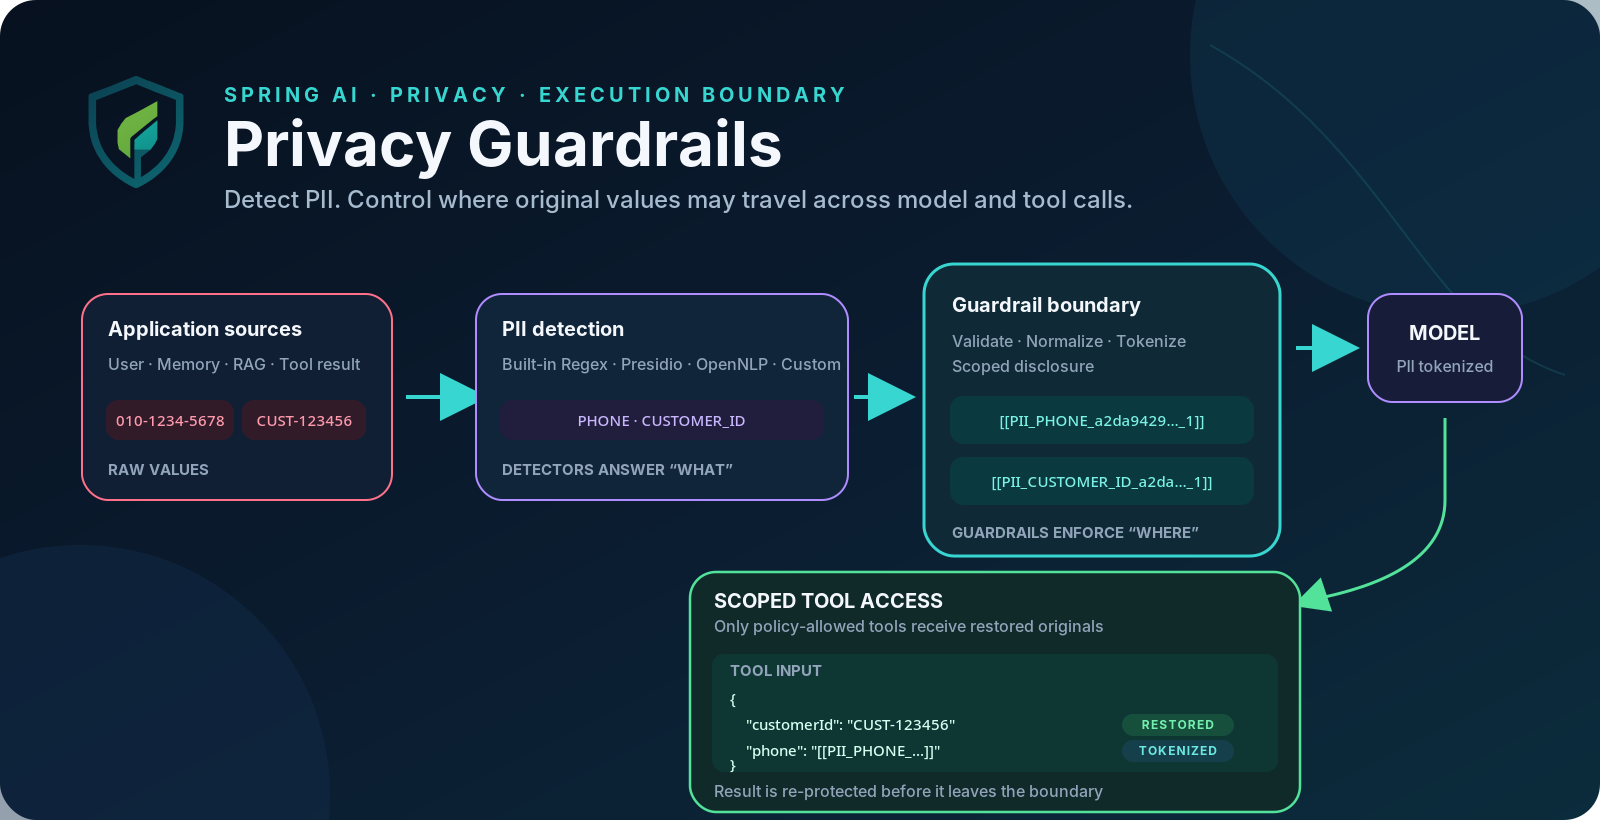
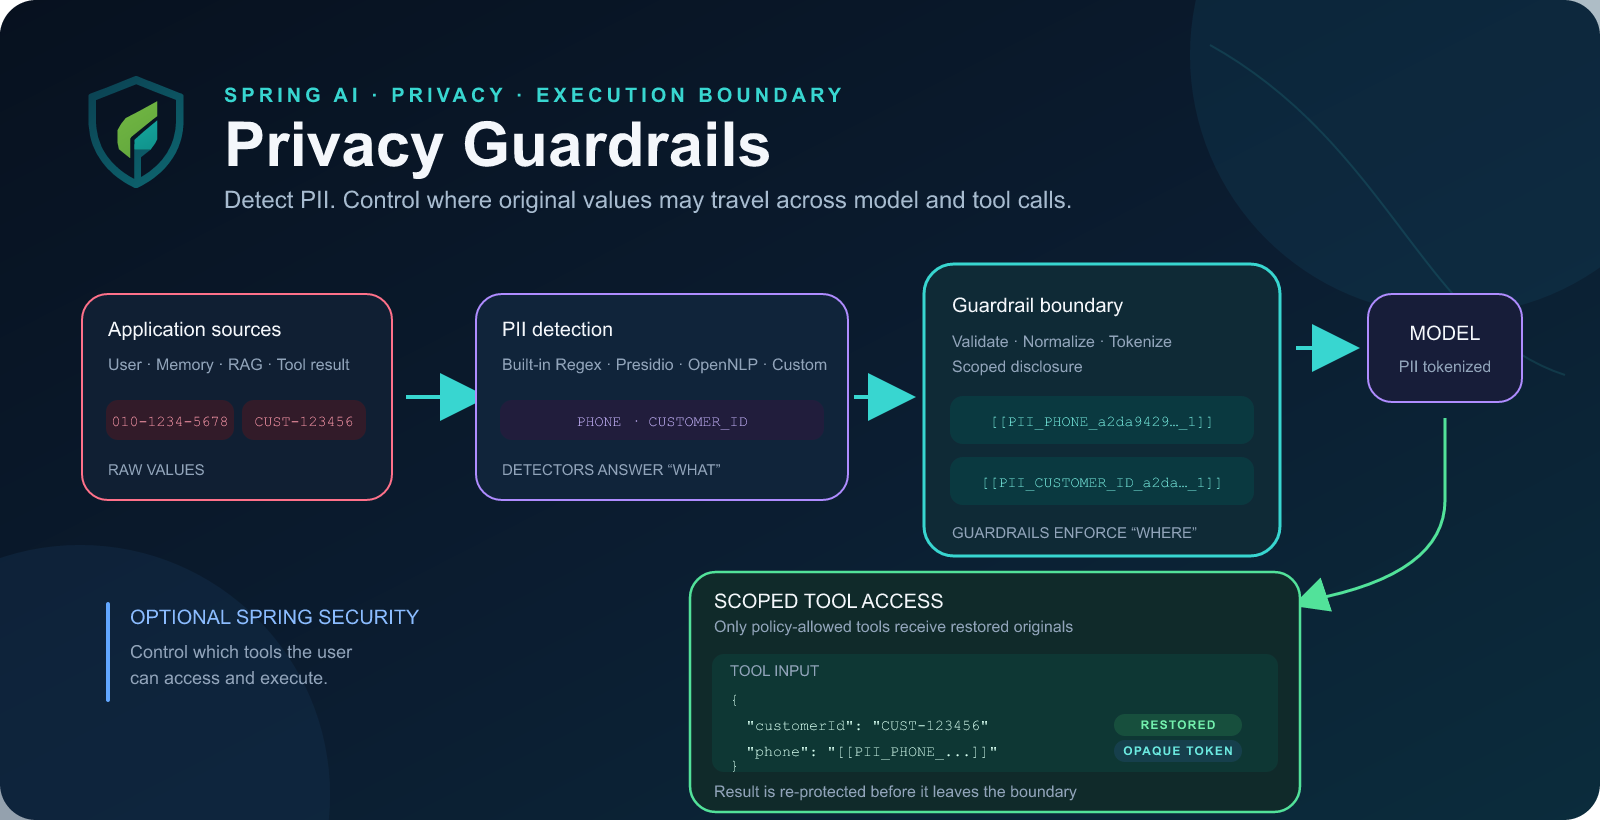
docs: improve localized metadata and link previews (#45)
Improve English and Korean documentation metadata and link previews.
Refresh project mentions and the shared preview image.

diff --git a/overrides/main.html b/overrides/main.html
@@ -1,0 +1,47 @@
+{% extends "base.html" %}
+
+{% block extrahead %}
+  {{ super() }}
+  {% if page and page.canonical_url %}
+    {% set is_korean = page.url[:3] == "ko/" %}
+    {% set share_title = config.site_name %}
+    {% if page.url != "" and page.url != "ko/" %}
+      {% set share_title = page.title ~ " - " ~ config.site_name %}
+    {% endif %}
+    {% set share_description = config.site_description %}
+    {% if page.meta and page.meta.description %}
+      {% set share_description = page.meta.description %}
+    {% endif %}
+    {% set share_image = config.site_url ~ "images/hero.png" %}
+    {% if is_korean %}
+      {% set share_image_alt = "Spring AI Privacy Guardrails의 개인정보 탐지·토큰화와 도구별 원문 공개 흐름" %}
+    {% else %}
+      {% set share_image_alt = "Spring AI Privacy Guardrails: PII detection, tokenization, and scoped disclosure to tools" %}
+    {% endif %}
+
+    <meta property="og:type" content="website">
+    <meta property="og:site_name" content="{{ config.site_name | e }}">
+    <meta property="og:title" content="{{ share_title | e }}">
+    <meta property="og:description" content="{{ share_description | e }}">
+    <meta property="og:url" content="{{ page.canonical_url | e }}">
+    <meta property="og:locale" content="{{ 'ko_KR' if is_korean else 'en_US' }}">
+    <meta property="og:image" content="{{ share_image | e }}">
+    <meta property="og:image:type" content="image/png">
+    <meta property="og:image:width" content="1600">
+    <meta property="og:image:height" content="820">
+    <meta property="og:image:alt" content="{{ share_image_alt | e }}">
+    <meta name="twitter:card" content="summary_large_image">
+    <meta name="twitter:title" content="{{ share_title | e }}">
+    <meta name="twitter:description" content="{{ share_description | e }}">
+    <meta name="twitter:image" content="{{ share_image | e }}">
+    <meta name="twitter:image:alt" content="{{ share_image_alt | e }}">
+
+    {% for path in config.extra.translated_pages %}
+      {% if page.url == path or page.url == ("ko/" ~ path) %}
+        <meta property="og:locale:alternate" content="{{ 'en_US' if is_korean else 'ko_KR' }}">
+        <link rel="alternate" hreflang="en" href="{{ config.site_url ~ path }}">
+        <link rel="alternate" hreflang="ko" href="{{ config.site_url ~ 'ko/' ~ path }}">
+      {% endif %}
+    {% endfor %}
+  {% endif %}
+{% endblock %}

diff --git a/overrides/partials/language.html b/overrides/partials/language.html
@@ -1,0 +1,12 @@
+{% set language = config.theme.language | d("en", true) %}
+{% import "partials/languages/" ~ language ~ ".html" as lang %}
+{% import "partials/languages/en.html" as fallback %}
+
+{# Set the document language per page, keeping the configured theme translations. #}
+{% macro t(key) -%}
+  {%- if key == "language" and page and page.url[:3] == "ko/" -%}
+    ko
+  {%- else -%}
+    {{ lang.t(key) or fallback.t(key) or key }}
+  {%- endif -%}
+{%- endmacro %}

diff --git a/docs/javascripts/language.js b/docs/javascripts/language.js
@@ -1,0 +1,11 @@
+// Instant navigation replaces page metadata but preserves the root HTML element.
+document$.subscribe(() => {
+  const canonical = document.querySelector('link[rel="canonical"]');
+  const alternate = Array.from(
+    document.querySelectorAll('link[rel="alternate"][hreflang]')
+  ).find((link) => link.href === canonical?.href);
+
+  if (alternate) {
+    document.documentElement.lang = alternate.hreflang;
+  }
+});

diff --git a/docs/ko/index.md b/docs/ko/index.md
@@ -1,4 +1,7 @@
 ---
+description: >-
+  Spring AI Privacy Guardrails는 요청별로 개인정보를 보호하고 도구에 전달할 원문을 제한합니다. Spring Security 도구
+  권한 검사를 선택적으로 함께 사용할 수 있습니다.
 hide:
   - footer
 ---
@@ -8,7 +11,7 @@ hide:
 [English](../index.md) | **한국어**
 
 <!-- i18n-source: docs/index.md -->
-<!-- i18n-source-sha256: 8c7f94556fe01ed12c5c87754413585bb127ef2781fac4f42f047bc18e3e83cf -->
+<!-- i18n-source-sha256: f3efa7e8f5c034cf66edcafa13eb3a4b05e6089479582aad6443d53f9f8c0049 -->
 
 ![Spring AI Privacy Guardrails 실행 경계](../images/hero.svg)
 
@@ -23,8 +26,10 @@ hide:
 도구 실행 전에 권한을 검사할 수 있습니다. 도구 권한 검사는 개인정보 보호 기능 없이도
 사용할 수 있습니다.
 
-Spring 공식 블로그에서 소개:
-[This Week in Spring — August 18, 2026](https://spring.io/blog/2026/08/18/this-week-in-spring-august-18-2026/).
+**외부 소개**
+
+- **Spring 공식 블로그** — [This Week in Spring](https://spring.io/blog/2026/08/18/this-week-in-spring-august-18-2026/)에 소개
+- **Spring AI Community** — [Awesome Spring AI의 Extensions and Forks](https://github.com/spring-ai-community/awesome-spring-ai#extensions-and-forks)에 소개
 
 ## 직접 확인하기
 

diff --git a/README.md b/README.md
@@ -10,10 +10,10 @@
   <img src="docs/images/hero.svg" alt="Spring AI Privacy Guardrails execution boundaries" width="100%">
 </p>
 
-<p align="center">
-  Featured on the Spring Blog:
-  <a href="https://spring.io/blog/2026/08/18/this-week-in-spring-august-18-2026/">This Week in Spring — August 18, 2026</a>
-</p>
+**Featured In**
+
+- **Spring Blog** — Featured in [This Week in Spring](https://spring.io/blog/2026/08/18/this-week-in-spring-august-18-2026/)
+- **Spring AI Community** — Listed in [Awesome Spring AI's Extensions and Forks](https://github.com/spring-ai-community/awesome-spring-ai#extensions-and-forks)
 
 <p align="center">
   <strong>Watch the demo:</strong>
@@ -79,6 +79,8 @@ Inspector**. Compare the values the model and tools actually receive:
   received by the model.
 - **MCP** shows the same protection through a local MCP tool call over
   Streamable HTTP.
+- **Security** compares tool visibility and execution permissions for a general
+  employee and customer support, with PII protection on the allowed call.
 
 <p align="center">
   <img src="docs/images/privacy-boundary-inspector-demo.gif" alt="Privacy Boundary Inspector showing no fixed-fixture raw PII at the model and one scoped tool disclosure" width="960">

diff --git a/docs/index.md b/docs/index.md
@@ -1,3 +1,9 @@
+---
+description: >-
+  Spring AI Privacy Guardrails protects PII within each request, limits the original
+  values sent to tools, and optionally applies Spring Security tool authorization.
+---
+
 # Spring AI Privacy Guardrails
 
 **English** | [한국어](ko/index.md)
@@ -16,8 +22,10 @@ The optional [Spring Security integration](security.md) controls which tools
 are shown to the model and checks authorization before tool execution. It can
 be used independently of PII protection.
 
-Featured on the Spring Blog:
-[This Week in Spring — August 18, 2026](https://spring.io/blog/2026/08/18/this-week-in-spring-august-18-2026/).
+**Featured In**
+
+- **Spring Blog** — Featured in [This Week in Spring](https://spring.io/blog/2026/08/18/this-week-in-spring-august-18-2026/)
+- **Spring AI Community** — Listed in [Awesome Spring AI's Extensions and Forks](https://github.com/spring-ai-community/awesome-spring-ai#extensions-and-forks)
 
 ## See It in Action
 

diff --git a/docs/ko/security.md b/docs/ko/security.md
@@ -1,9 +1,15 @@
+---
+description: >-
+  Spring AI 모델에 제공할 도구와 도구 실행에 Spring Security 권한 검사를 적용하는 방법을 설명합니다. 권한 검사만 사용하거나
+  개인정보 보호와 함께 구성할 수 있습니다.
+---
+
 # Spring Security 도구 권한
 
 [English](../security.md) | **한국어**
 
 <!-- i18n-source: docs/security.md -->
-<!-- i18n-source-sha256: 7c5619b565a691d1dde8cceb16c2c89424b14127c8e7b0faa838c2a5d5154042 -->
+<!-- i18n-source-sha256: e0c1153b4601b52b8aa6b7a82026a77e80a3d23807e69ff360141e85916c4b01 -->
 
 Spring Security 연동은 현재 사용자(`Authentication`)의 권한에 따라 모델에 보여 줄
 도구와 실제로 실행할 수 있는 도구를 제한합니다. 도구 권한 검사만 사용하거나 개인정보

diff --git a/docs/ko/evaluation.md b/docs/ko/evaluation.md
@@ -1,9 +1,14 @@
+---
+description: >-
+  Spring AI Privacy Guardrails의 개인정보 보호 경계와 도구 권한 검증, 재현 가능한 분석기 테스트, 성능 벤치마크를 설명합니다.
+---
+
 # 평가와 벤치마크
 
 [English](../evaluation.md) | **한국어**
 
 <!-- i18n-source: docs/evaluation.md -->
-<!-- i18n-source-sha256: 53364c80a38f1e763ca2d2b97f3de479b4dad49d7fcc18ec4a3beadafc1267b9 -->
+<!-- i18n-source-sha256: 2f262af76f5245ad82d8ecfa105a3d5507ceb801d7d330df3a12e3590e5a5dfe -->
 
 이 저장소에는 데모 분석기의 회귀 테스트, 개인정보 보호 경계 테스트와 JMH 벤치마크가
 포함되어 있습니다. 회귀 테스트는 탐지 결과를, 경계 테스트는 정책 적용을, JMH 벤치마크는

diff --git a/docs/ko/getting-started.md b/docs/ko/getting-started.md
@@ -1,9 +1,15 @@
+---
+description: >-
+  Spring AI Privacy Guardrails의 스타터와 분석기를 선택하고 모델 요청, 로컬·MCP 도구 호출, 최종 응답에 개인정보 보호를
+  적용하는 방법을 설명합니다.
+---
+
 # 시작하기
 
 [English](../getting-started.md) | **한국어**
 
 <!-- i18n-source: docs/getting-started.md -->
-<!-- i18n-source-sha256: 37df2bb67b41172f5b45fd0b06b533b24f250cc152abd5368dfadb3c2823d890 -->
+<!-- i18n-source-sha256: efc5164e2cb3cea0c3600060c9d6f6947d39e50d11c8191df78e90442914aeda -->
 
 이 가이드는 기존 Spring AI 애플리케이션에 Spring AI Privacy Guardrails를
 추가해 모델, 도구, MCP 및 출력 경계에 개인정보 보호를 적용하는 기본 사용 방법을

diff --git a/docs/ko/sample.md b/docs/ko/sample.md
@@ -1,9 +1,15 @@
+---
+description: >-
+  Privacy Boundary Inspector의 Local Tool, RAG, MCP, Security 시나리오로 개인정보 보호와 역할별 도구 접근 권한을
+  확인하는 방법을 설명합니다.
+---
+
 # 샘플 / 데모 가이드
 
 [English](../sample.md) | **한국어**
 
 <!-- i18n-source: docs/sample.md -->
-<!-- i18n-source-sha256: 5daca371c8ca2ef2e2d5692ee6870349130a97776d939f5ae6c1370ec8129c1a -->
+<!-- i18n-source-sha256: bfca745891ec530683f549b7356e61448e4fdcbc708aad7413ee2cc361bfc20b -->
 
 샘플은 로컬 도구, 문서 검색(RAG), MCP 도구 호출에서 개인정보가 보호되는 과정을
 보여줍니다. **Privacy Boundary Inspector**에서 모델과 도구가 전달받은 값을 비교할 수

diff --git a/docs/ko/configuration.md b/docs/ko/configuration.md
@@ -1,9 +1,15 @@
+---
+description: >-
+  Spring AI Privacy Guardrails의 분석기, 토큰화, 도구별 원문 공개 정책, 출력 보호, 처리 제한과 ChatClient 연동을
+  설정하는 방법을 설명합니다.
+---
+
 # 설정과 사용법
 
 [English](../configuration.md) | **한국어**
 
 <!-- i18n-source: docs/configuration.md -->
-<!-- i18n-source-sha256: 99ab1211e0ddbba73b87eecbb4da89aa8eac5b443ad9edc8e44a9a34305bae95 -->
+<!-- i18n-source-sha256: 1c7caae39ccd93080bd9e278bd103471a9d7dbe90eba899b14724336c6d121de -->
 
 이 문서는 Spring AI Privacy Guardrails를 사용하는 애플리케이션을 위한 종합
 참고 문서입니다.
